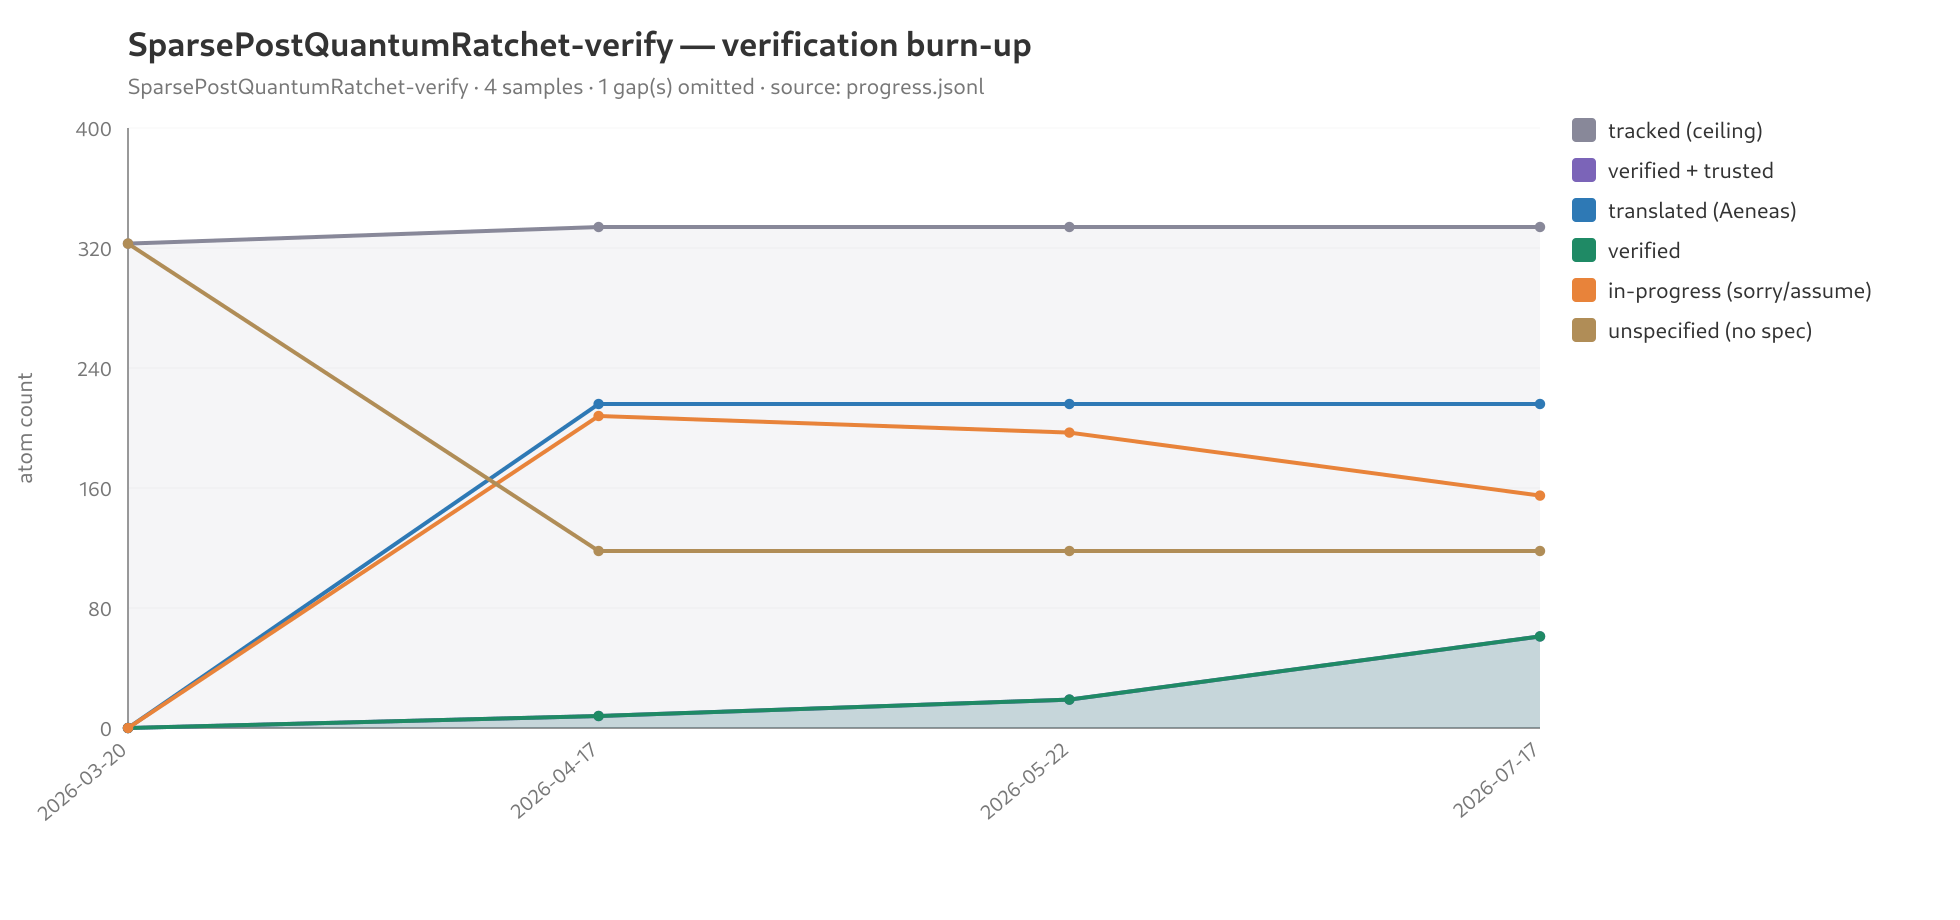
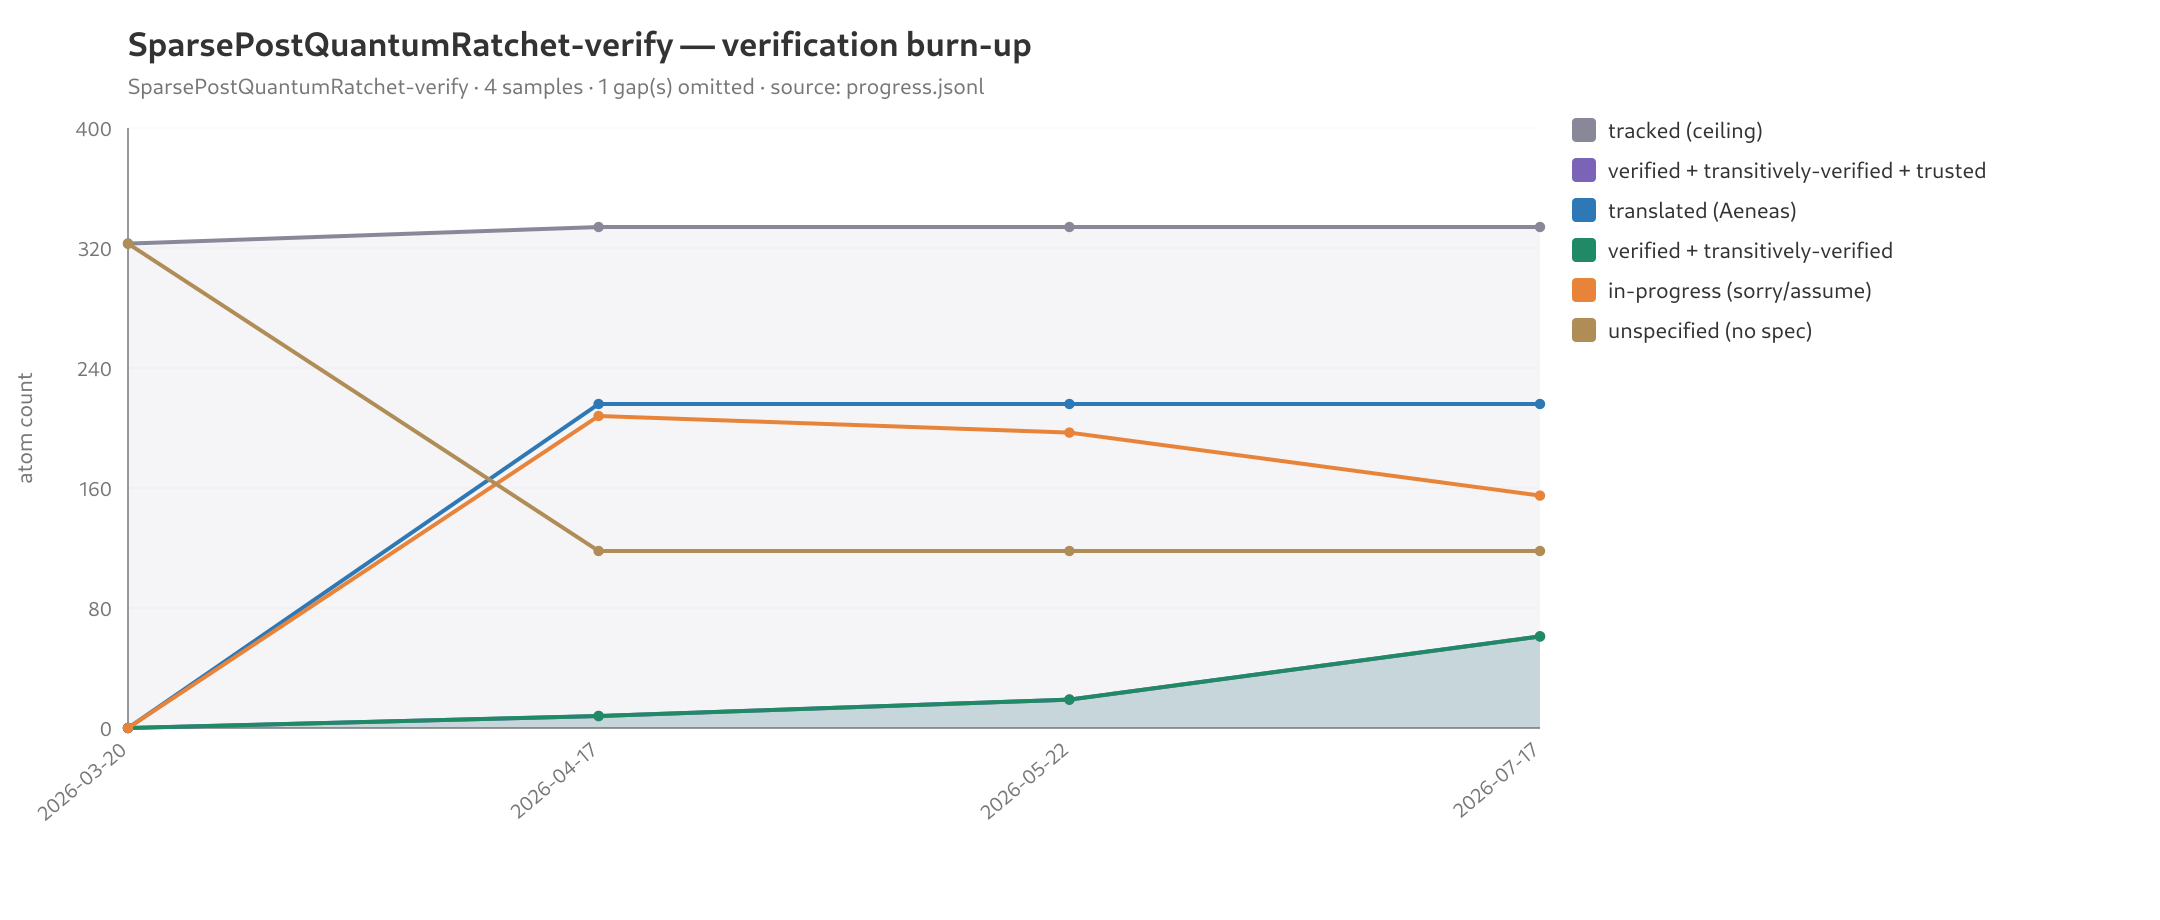
feat(progress-history): spell out "verified + transitively-verified" in chart legends
The colour and combined burn-up legends labelled the green band "verified"
and the completion frontier "verified + trusted". Per VeriLib-Docs, the green
band is verified + transitively-verified (light + dark green), so the short
label hid the transitive half. Name both bands explicitly so "+" means the
same thing throughout: "verified + transitively-verified" and
"verified + transitively-verified + trusted".

The legend now grows the canvas rightward when a label would overflow, so the
longer names are not clipped; charts with short legends keep the default width.
Regenerated every affected committed chart (Verus/Aeneas colour burn-ups and
the leanblueprint/lean combined panels); two-panel blueprint/lean charts use
different labels and are untouched.

diff --git a/tools/verification-progress-history/plot_progress.py b/tools/verification-progress-history/plot_progress.py
@@ -251,6 +251,15 @@ class Plot:
     def legend(self, entries):
         lx = self.ml + self.plot_w + 16
         ly = self.mt + 4
+        # Grow the canvas rightward if the widest label would overflow, so long
+        # frontier names (e.g. "verified + transitively-verified + trusted") are
+        # not clipped. The plot area is already drawn against the original width,
+        # so this only extends the right margin; charts with short legends keep
+        # the default width and their SVGs are unchanged.
+        widest = max((len(label) for label, _ in entries), default=0)
+        needed = lx + 18 + int(widest * 6.3) + 12
+        if needed > self.W:
+            self.W = needed
         for i, (label, color) in enumerate(entries):
             yy = ly + i * 20
             self.parts.append(
@@ -321,8 +330,8 @@ def burnup_svg(ok, title, subtitle, show_in_progress=False, show_unspecified=Fal
     plot.line(verified, COL["verified"])
     legend = [
         ("tracked (ceiling)", COL["tracked"]),
-        ("verified + trusted", COL["verified_trusted"]),
-        ("verified", COL["verified"]),
+        ("verified + transitively-verified + trusted", COL["verified_trusted"]),
+        ("verified + transitively-verified", COL["verified"]),
     ]
     if has_translated:
         plot.line(translated, COL["translated"])
@@ -512,8 +521,8 @@ def _combined_plot(
     # provenance live in the subtitle and the "How to read" docs.
     legend = [
         (ceiling_label, COL["tracked"]),
-        ("verified + trusted", COL["verified_trusted"]),
-        ("verified", COL["verified"]),
+        ("verified + transitively-verified + trusted", COL["verified_trusted"]),
+        ("verified + transitively-verified", COL["verified"]),
     ]
     # Zero-based status curves, drawn only when present (like `translated` /
     # `failed` on the colour burn-up) so a clean history stays uncluttered.

diff --git a/tools/verification-progress-history/tests/test_plot_progress.py b/tools/verification-progress-history/tests/test_plot_progress.py
@@ -225,7 +225,7 @@ def test_combined_single_panel_and_fc_aligned_legend():
     assert "— combined" in svg
     # Band names match the FC colour burn-up vocabulary.
     assert "tracked (ceiling)" in svg
-    assert "verified + trusted" in svg
+    assert "verified + transitively-verified + trusted" in svg
     assert "in-progress (sorry/assume)" in svg  # present -> drawn
     assert "unrealized (no bound status)" in svg  # _bpa has bp_def_unrealized=1
     assert "unspecified (no statement)" in svg
@@ -307,7 +307,7 @@ def test_lean_combined_single_panel_and_fc_aligned_legend():
     # declaration count -- labelled "total", never "tracked" (no tracked number).
     assert "tracked" not in svg
     assert ">total</text>" in svg
-    assert "verified + trusted" in svg
+    assert "verified + transitively-verified + trusted" in svg
     assert "without sorry" not in svg and "trust boundary" not in svg
     assert "in-progress (sorry/assume)" in svg  # 5 sorries -> curve drawn
     # Unit is a declaration, and there is no blueprint statement axis.
